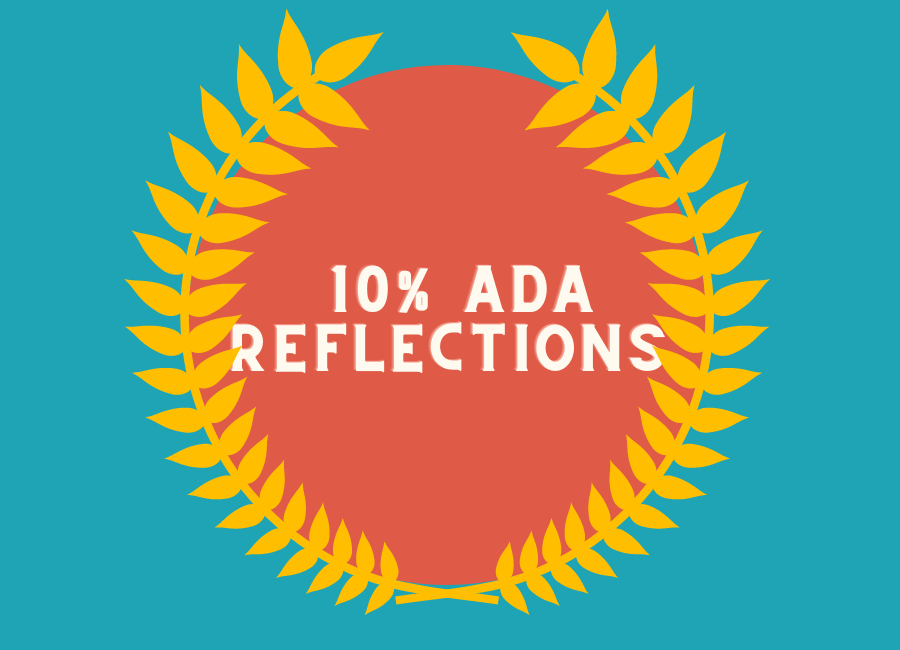
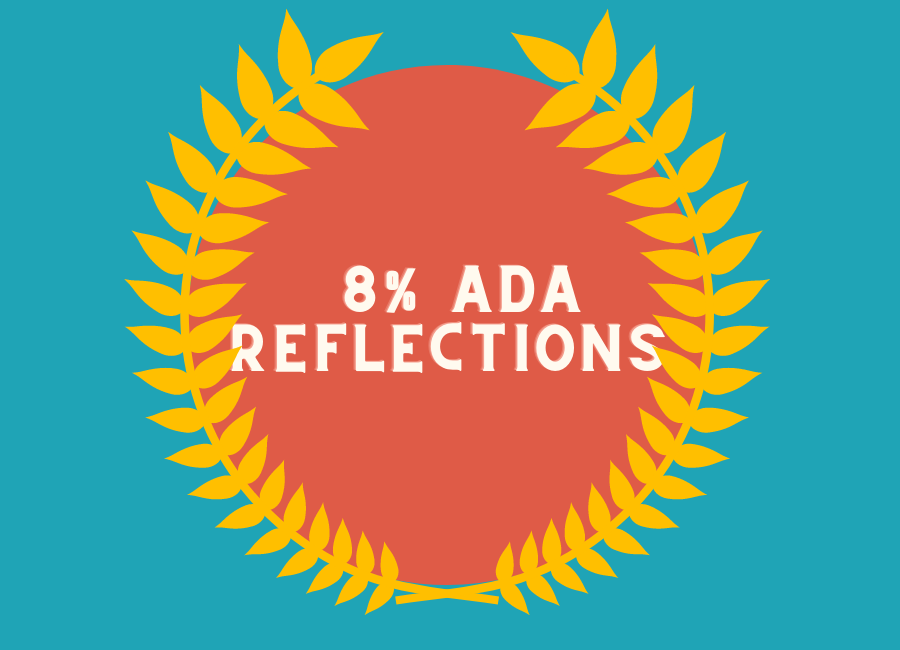
updates

Changed region(s): [[0.3733, 0.4, 0.6533, 0.4923]]

diff --git a/index.html b/index.html
@@ -100,7 +100,7 @@
                 <!-- Portfolio Grid Items-->
                 <div class="row justify-content-center">
                     <!-- Portfolio Item 1-->
-                    <div class="col-md-6 col-lg-4 mb-5">
+                    <div class="col-md-6 col-lg-3 mb-5">
                         <div class="portfolio-item mx-auto" data-bs-toggle="modal" data-bs-target="#portfolioModal1">
                             <div class="portfolio-item-caption d-flex align-items-center justify-content-center h-100 w-100">
                                 <div class="portfolio-item-caption-content text-center text-white"><i class="fas fa-plus fa-3x"></i></div>
@@ -109,7 +109,7 @@
                         </div>
                     </div>
                     <!-- Portfolio Item 2-->
-                    <div class="col-md-6 col-lg-4 mb-5">
+                    <div class="col-md-6 col-lg-3 mb-5">
                         <div class="portfolio-item mx-auto" data-bs-toggle="modal" data-bs-target="#portfolioModal2">
                             <div class="portfolio-item-caption d-flex align-items-center justify-content-center h-100 w-100">
                                 <div class="portfolio-item-caption-content text-center text-white"><i class="fas fa-plus fa-3x"></i></div>
@@ -118,7 +118,7 @@
                         </div>
                     </div>
                     <!-- Portfolio Item 3-->
-                    <div class="col-md-6 col-lg-4 mb-5">
+                    <div class="col-md-6 col-lg-3 mb-5">
                         <div class="portfolio-item mx-auto" data-bs-toggle="modal" data-bs-target="#portfolioModal3">
                             <div class="portfolio-item-caption d-flex align-items-center justify-content-center h-100 w-100">
                                 <div class="portfolio-item-caption-content text-center text-white"><i class="fas fa-plus fa-3x"></i></div>
@@ -126,8 +126,76 @@
                             <img class="img-fluid" src="assets/img/portfolio/3.png" alt="..." />
                         </div>
                     </div>
+                                        <!-- Portfolio Item 4-->
+                                        <div class="col-md-6 col-lg-3 mb-5">
+                                            <div class="portfolio-item mx-auto" data-bs-toggle="modal" data-bs-target="#portfolioModal4">
+                                                <div class="portfolio-item-caption d-flex align-items-center justify-content-center h-100 w-100">
+                                                    <div class="portfolio-item-caption-content text-center text-white"><i class="fas fa-plus fa-3x"></i></div>
+                                                </div>
+                                                <img class="img-fluid" src="assets/img/portfolio/4.png" alt="..." />
+                                            </div>
+                                        </div>
 
                 </div>
+
+                <!DOCTYPE html>
+
+
+
+		
+		<!-- amCharts javascript sources -->
+		<script type="text/javascript" src="https://www.amcharts.com/lib/3/amcharts.js"></script>
+		<script type="text/javascript" src="https://www.amcharts.com/lib/3/pie.js"></script>
+		
+
+		<!-- amCharts javascript code -->
+		<script type="text/javascript">
+			AmCharts.makeChart("chartdiv",
+				{
+					"type": "pie",
+					"angle": 47.7,
+					"balloonText": "[[title]]<br><span style='font-size:14px'><b>[[value]]</b> ([[percents]]%)</span>",
+					"depth3D": 20,
+					"innerRadius": 0,
+					"baseColor": "#2B8168",
+					"titleField": "country",
+					"valueField": "litres",
+					"fontSize": 12,
+					"theme": "default",
+					"allLabels": [],
+					"balloon": {},
+					"titles": [],
+					"dataProvider": [
+						{
+							"country": "Presale",
+							"litres": "51"
+						},
+						{
+							"country": "Liquidity",
+							"litres": "34"
+						},
+						{
+							"country": "Locked",
+							"litres": "7"
+						},
+						{
+							"country": "Private",
+							"litres": "3"
+						},
+						{
+							"country": "Team",
+							"litres": "5"
+						}
+					]
+				}
+			);
+		</script>
+
+
+		<div id="chartdiv" style="width: 100%; height: 400px; background-color: #FFFFFF;" ></div>
+
+
+
             </div>
         </section>
         <!-- About Section-->
@@ -143,17 +211,17 @@
                 </div>
                 <!-- About Section Content-->
                 <div class="row">
-                    <div class="col-lg-4 ms-auto"><p class="lead">$MADA is a community-driven reflections token on the Binance Smart Chain. Holders have the opportunity to earn ADA coin passive income</p></div>
-                    <div class="col-lg-4 me-auto"><p class="lead">
-                        &#8226; &nbsp;Private sale on X April 2022 19:00PM UTC<br><br>
-                        &#8226; &nbsp;Pre-sale - Monday X April 19:00PM UTC<br><br>
-                        &#8226; &nbsp;Launch Monday X April 19:00PM UTC<br><br>
-                        *Ownership will be renounced as soon as presale ends.</p></div>
+                    <div class="col-lg-5 ms-auto"><p class="lead">$MADA is a community-driven reflections token on the Binance Smart Chain. Holders have the opportunity to earn ADA coin passive income</p></div>
+                    <div class="col-lg-5 me-auto"><p class="lead">
+                        &#8226; &nbsp;Private Sale: on April 14th, 2022 19:00PM UTC<br>
+                        &#8226; &nbsp;Pre-sale: April 27th, 2022 19:00PM UTC<br>
+                        &#8226; &nbsp;Launch: May 1st, 2022 19:00PM UTC<br>
+                        *Ownership will be renounced as soon as presale starts.</p></div>
                 </div>
                 <!-- About Section Button-->
                 <div class="text-center mt-4">
-                    <a class="btn btn-xl btn-outline-light" href="https://startbootstrap.com/theme/freelancer/">
-                        <i class="fas fa-download me-2"></i>
+                    <a class="btn btn-xl btn-outline-light" href="https://t.me/MarmalAda_Official">
+                        <i class="fas fa-basket-shopping me-2"></i>
                         Buy now!
                     </a>
                 </div>
@@ -181,8 +249,11 @@
                         <!-- https://startbootstrap.com/solution/contact-forms-->
                         <!-- to get an API token!-->
                         <div class="row">
-                            <div class="col-lg-4 ms-auto"><p class="lead">Freelancer is a free bootstrap theme created by Start Bootstrap. The download includes the complete source files including HTML, CSS, and JavaScript as well as optional SASS stylesheets for easy customization.</p></div>
-                            <div class="col-lg-4 me-auto"><p class="lead">You can create your own custom avatar for the masthead, change the icon in the dividers, and add your email address to the contact form to make it fully functional!</p></div>
+                            <div class="col-lg-4 ms-auto"><p class="lead">The Audit is conducted by SafuAudit.</p></div>
+                            <div class="col-lg-4 me-auto"><p class="lead">The KYC is done through SafuAudit platform with AI additionally checks.</p></div>
+                        </div>
+                        <div class="row justify-content-center">
+                            <img src="assets/img/safuaudit-logo4.png" alt="" style="width: 450px;">
                         </div>
                     </div>
                 </div>
@@ -194,25 +265,20 @@
                 <div class="row">
                     <!-- Footer Location-->
                     <div class="col-lg-4 mb-5 mb-lg-0">
-                        <h4 class="text-uppercase mb-4">Location</h4>
-                        <p class="lead mb-0">
-                            2215 John Daniel Drive
-                            <br />
-                            Clark, MO 65243
-                        </p>
+
                     </div>
                     <!-- Footer Social Icons-->
                     <div class="col-lg-4 mb-5 mb-lg-0">
                         <h4 class="text-uppercase mb-4">Social</h4>
-                        <a class="btn btn-outline-light btn-social mx-1" href="#!"><i class="fab fa-fw fa-telegram"></i></a>
-                        <a class="btn btn-outline-light btn-social mx-1" href="#!"><i class="fab fa-fw fa-twitter"></i></a>
+                        <a class="btn btn-outline-light btn-social mx-1" href="https://t.me/MarmalAda_Official"><i class="fab fa-fw fa-telegram"></i></a>
+                        <a class="btn btn-outline-light btn-social mx-1" href="https://twitter.com/MarmalAda_Token"><i class="fab fa-fw fa-twitter"></i></a>
                     </div>
                     <!-- Footer About Text-->
                     <div class="col-lg-4">
                         <h4 class="text-uppercase mb-4">About MarmalADA</h4>
                         <p class="lead mb-0">
-                            MarmalADA is a community driven token, with renounced ownership, 10% ADA reflections. Join the 
-                            <a href="">Presale</a>
+                            MarmalADA is a community driven token, with renounced ownership, 8% ADA reflections. Join the 
+                            <a href="https://t.me/MarmalAda_Official">Private sale</a>
                             now.
                         </p>
                     </div>
@@ -221,7 +287,7 @@
         </footer>
         <!-- Copyright Section-->
         <div class="copyright py-4 text-center text-white">
-            <div class="container"><small>Copyright &copy; Your Website 2022</small></div>
+            <div class="container"><small>Copyright &copy; MarmalAda Token 2022</small></div>
         </div>
         <!-- Portfolio Modals-->
         <!-- Portfolio Modal 1-->
